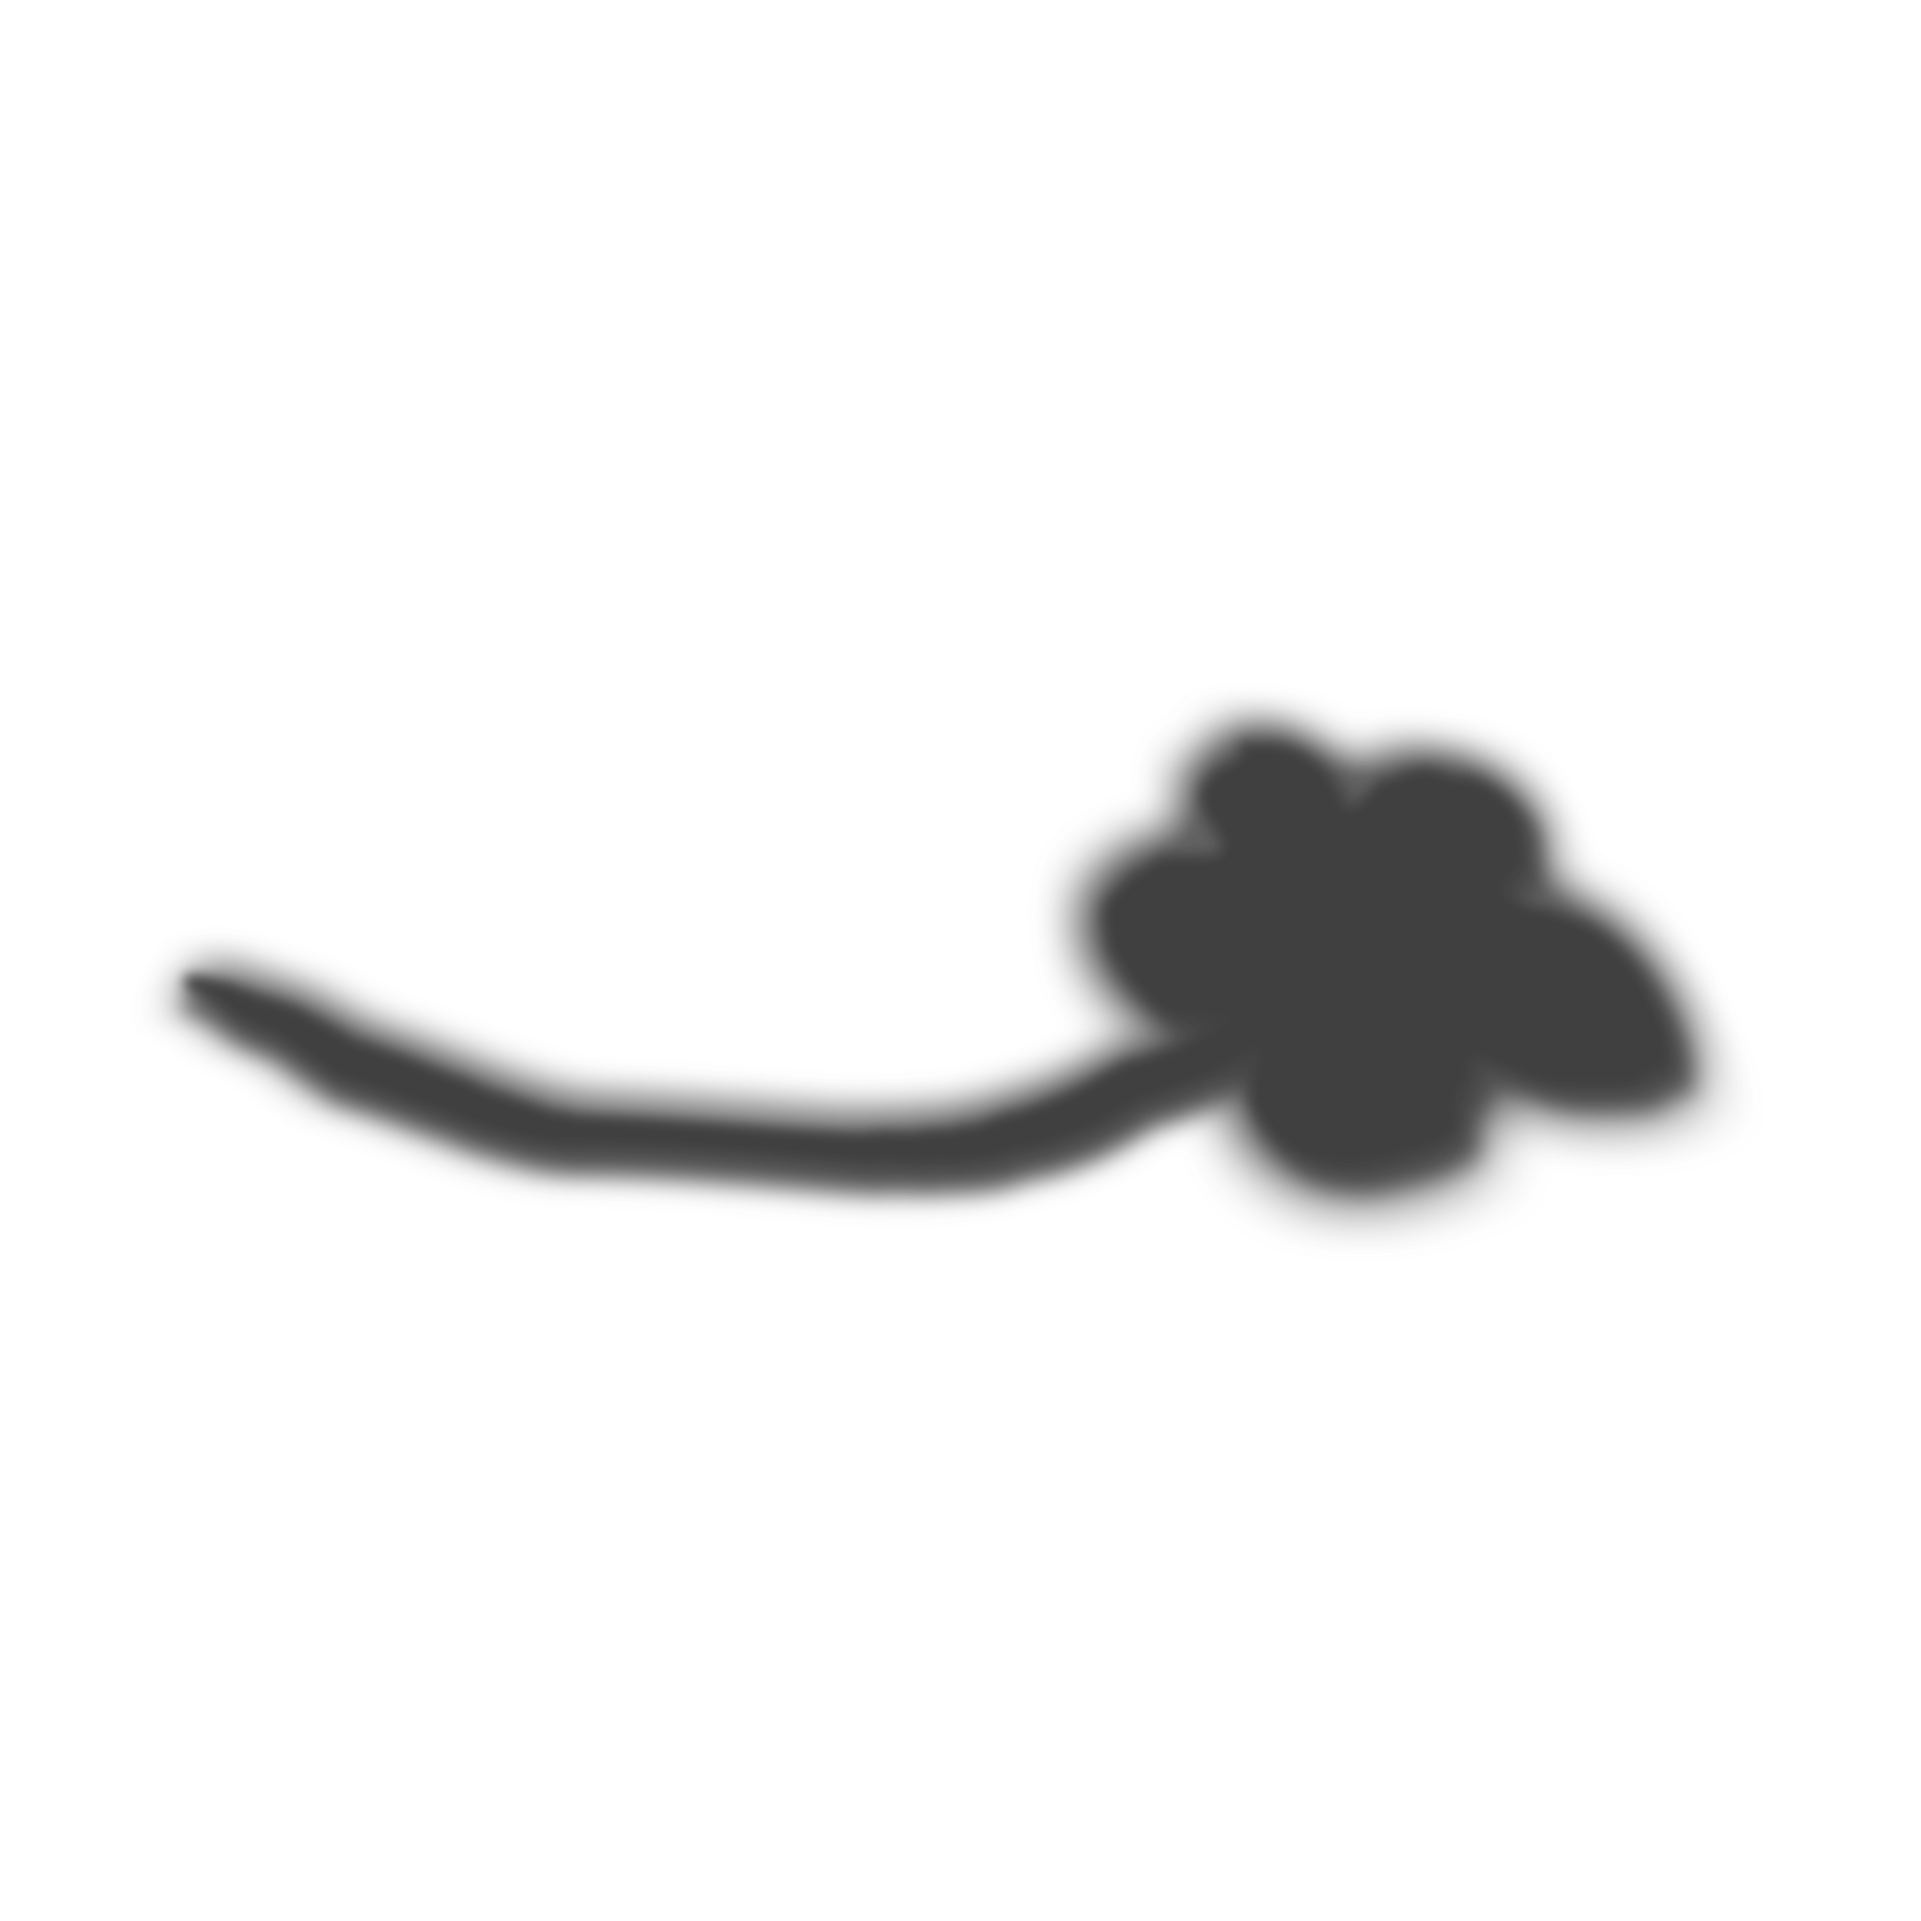
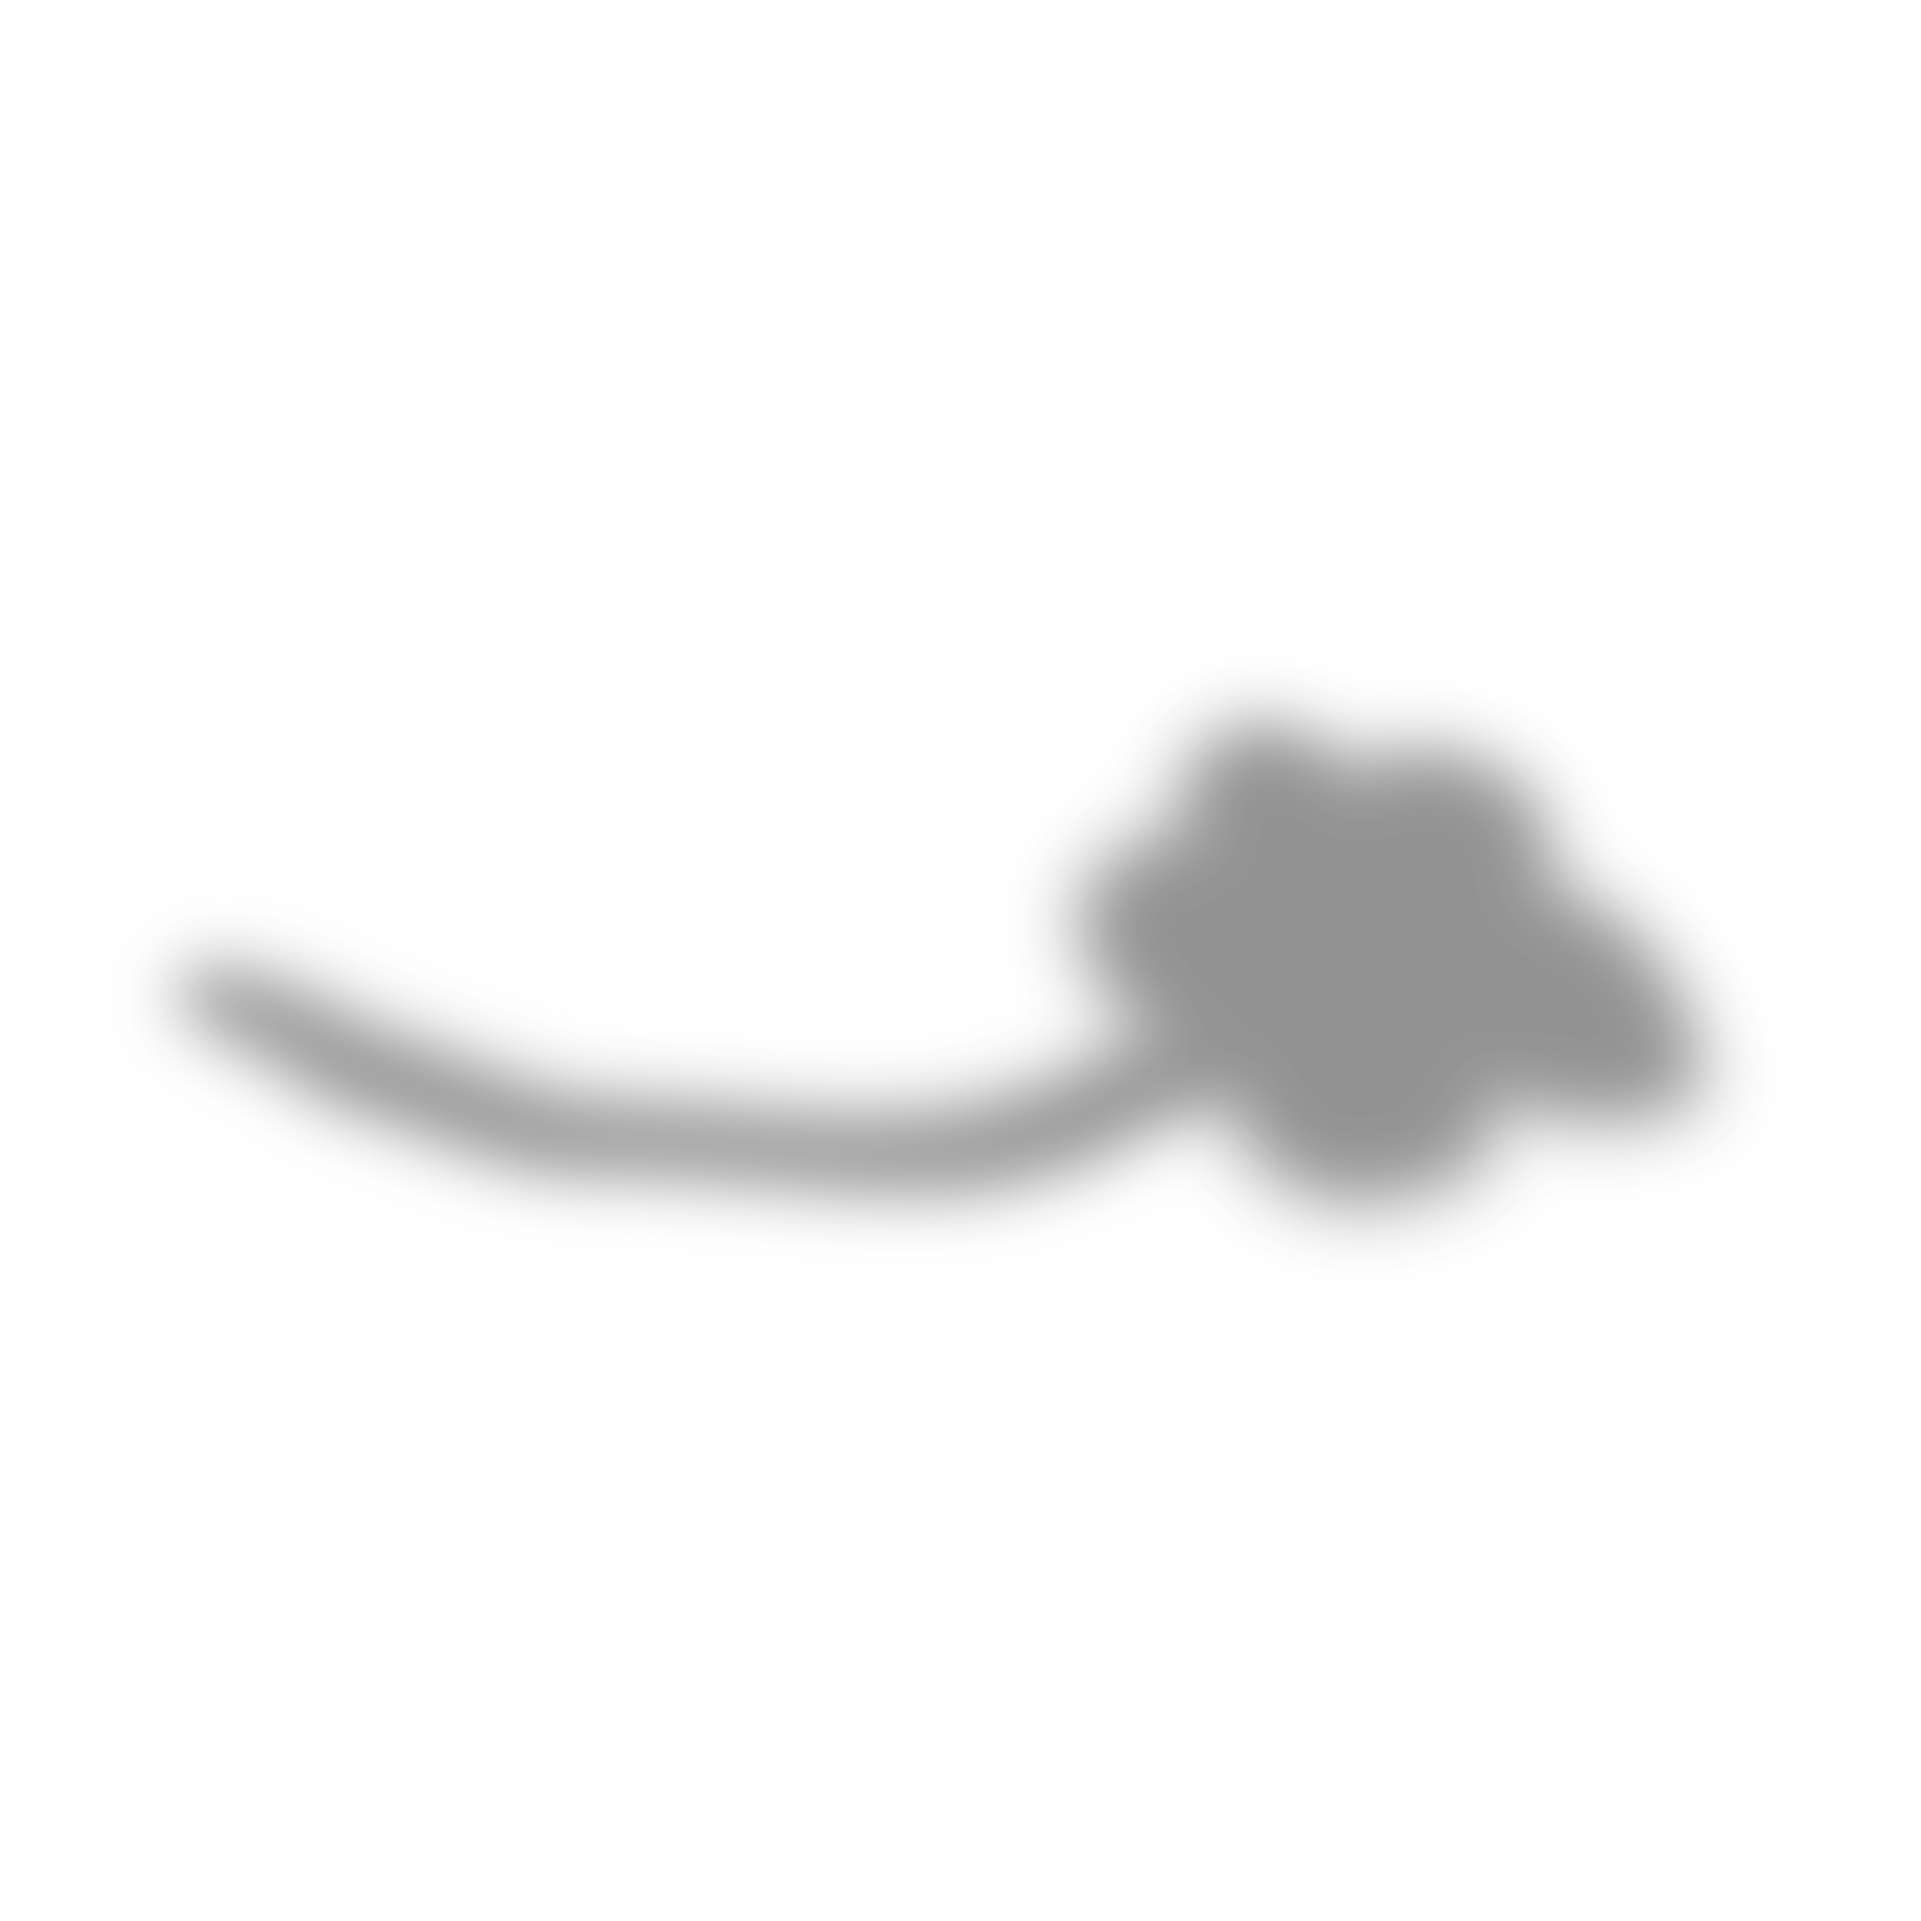
ButtonE eingefügt, Schatten geändert, Rauch Collision

Changed region(s): [[0.093, 0.372, 0.899, 0.651]]

diff --git a/VergissMeinNicht/VergissMeinNicht/Entities/Teddy.cs b/VergissMeinNicht/VergissMeinNicht/Entities/Teddy.cs
@@ -22,6 +22,7 @@ using Keys = Microsoft.Xna.Framework.Input.Keys;
 using Vector3 = Microsoft.Xna.Framework.Vector3;
 using Texture2D = Microsoft.Xna.Framework.Graphics.Texture2D;
 using VergissMeinNicht.Screens;
+using FlatRedBall.Graphics;
 
 #endif
 #endregion
@@ -34,14 +35,17 @@ namespace VergissMeinNicht.Entities
         
         private void CustomInitialize()
 		{
-            
-
+            UI_Button_EInstance.SpriteInstance.Position.X = this.X + 50;
+            UI_Button_EInstance.SpriteInstance.Position.Y = this.Y + 50;
+            UI_Button_EInstance.SpriteInstance.YVelocity = 10;  //macht irgendwie nichts
 		}
 
 		private void CustomActivity()
 		{
-
             TeddySwitch();
+            string resultStringX = "E.X:" + this.Position.X.ToString();
+            string resultStringY = "E.Y:" + this.Position.Y.ToString();
+            FlatRedBall.Debugging.Debugger.Write(resultStringX + "\n" + resultStringY);
 		}
 
         public void UpdateCharacterScale()
@@ -140,20 +144,23 @@ namespace VergissMeinNicht.Entities
                 if (InputManager.Keyboard.KeyPushed(Keys.S))
                 {
 
-                }                
+                }
 
-                    SaveText.Visible = true;
+                UI_Button_EInstance.SpriteInstanceVisible = true;    
+
+                   /* SaveText.Visible = true;
                     InteractText.Visible = true;
                     SaveText.Position.X = PlatformerCharacterBase.getInstance().Position.X + 100;
                     SaveText.Position.Y = PlatformerCharacterBase.getInstance().Y + 80;
                     InteractText.Position.X = PlatformerCharacterBase.getInstance().Position.X + 100;
                     InteractText.Position.Y = PlatformerCharacterBase.getInstance().Y + 100;
-                                
+                     */           
 
                 
             }
             else
             {
+                UI_Button_EInstance.SpriteInstanceVisible = false;
                 SaveText.Visible = false;
                 InteractText.Visible = false;
             }

diff --git a/VergissMeinNicht/VergissMeinNicht/Screens/LevelBase.cs b/VergissMeinNicht/VergissMeinNicht/Screens/LevelBase.cs
@@ -161,16 +161,19 @@ namespace VergissMeinNicht.Screens
             {      
                 BlumeInstance.Destroy();
                 Blume_SchattenInstance.Destroy();
+                RauchInstance.Destroy();
             }
 
         }
         //---/Flower
+       
 
         public void CollisionVisibilityOn()
         {
             SolidCollisions.AddToManagers(); // Add the ShapeColleciton to the ShapeManager so it's visible
-
             PlatformerCharacterBase.getInstance().Collision.Visible = true;
+            BlumeInstance.Collision.Visible = true;
+            RauchInstance.Visible = true;
         }
 
         public virtual void DeveloperActivity()
@@ -186,7 +189,6 @@ namespace VergissMeinNicht.Screens
                 CurrentLayer = 1;
                 PlatformerCharacterBase.getInstance().Y = 75;
                 PlatformerCharacterBase.getInstance().SpriteInstance.TextureScale = 0.5f;
-                //resetCollisionSize();
                 if (!PlatformerCharacterBase.isChild())
                 {
                     DisableLayers = false;
@@ -304,6 +306,8 @@ namespace VergissMeinNicht.Screens
             }
         }
         
+        //-------
+        //--Management des Hoch-/Runterswitchens
         void LayerManagement()
         {
             if (!DisableLayers)

diff --git a/VergissMeinNicht/VergissMeinNicht/Entities/UI_Button_E.cs b/VergissMeinNicht/VergissMeinNicht/Entities/UI_Button_E.cs
@@ -26,17 +26,23 @@ using Texture2D = Microsoft.Xna.Framework.Graphics.Texture2D;
 
 namespace VergissMeinNicht.Entities
 {
-	public partial class Rauch
+	public partial class UI_Button_E
 	{
-		private void CustomInitialize()
-		{
+        float thisStartPosY;
 
+
+		private void CustomInitialize() // KLAPPT NICHT!
+		{
+            thisStartPosY = this.Y;
+            this.SpriteInstance.YVelocity = 10;
 
 		}
 
 		private void CustomActivity()
 		{
-            PlatformerCharacterBase.getInstance().Collision.CollideAgainstMove(this.Collision, 0, 1); //Collision Rauch-Character
+            if (this.Y >= thisStartPosY + 15) this.YVelocity = -10;
+            else if (this.Y <= thisStartPosY - 15) this.YVelocity = 10;
+
 		}
 
 		private void CustomDestroy()
@@ -49,12 +55,6 @@ namespace VergissMeinNicht.Entities
         {
 
 
-        }
-
-        public void PositionRauch(float x, float y)
-        {
-            this.X = x;
-            this.Y = y;
         }
 	}
 }

diff --git a/VergissMeinNicht/VergissMeinNicht/Screens/Empfang.cs b/VergissMeinNicht/VergissMeinNicht/Screens/Empfang.cs
@@ -102,6 +102,8 @@ namespace VergissMeinNicht.Screens
                     FallInHole();
                 }
             }
+
+            //if (PlatformerCharacterBase.getInstance().X >= 689) InputManager.Keyboard.IgnoreKeyForOneFrame(Keys.Right);
   
             // LevelReset WA
             //if (PlatformerCharacterBase.getInstance().Y < 85 && Boden.Y == -300) MoveToScreen(typeof(Empfang).FullName);
